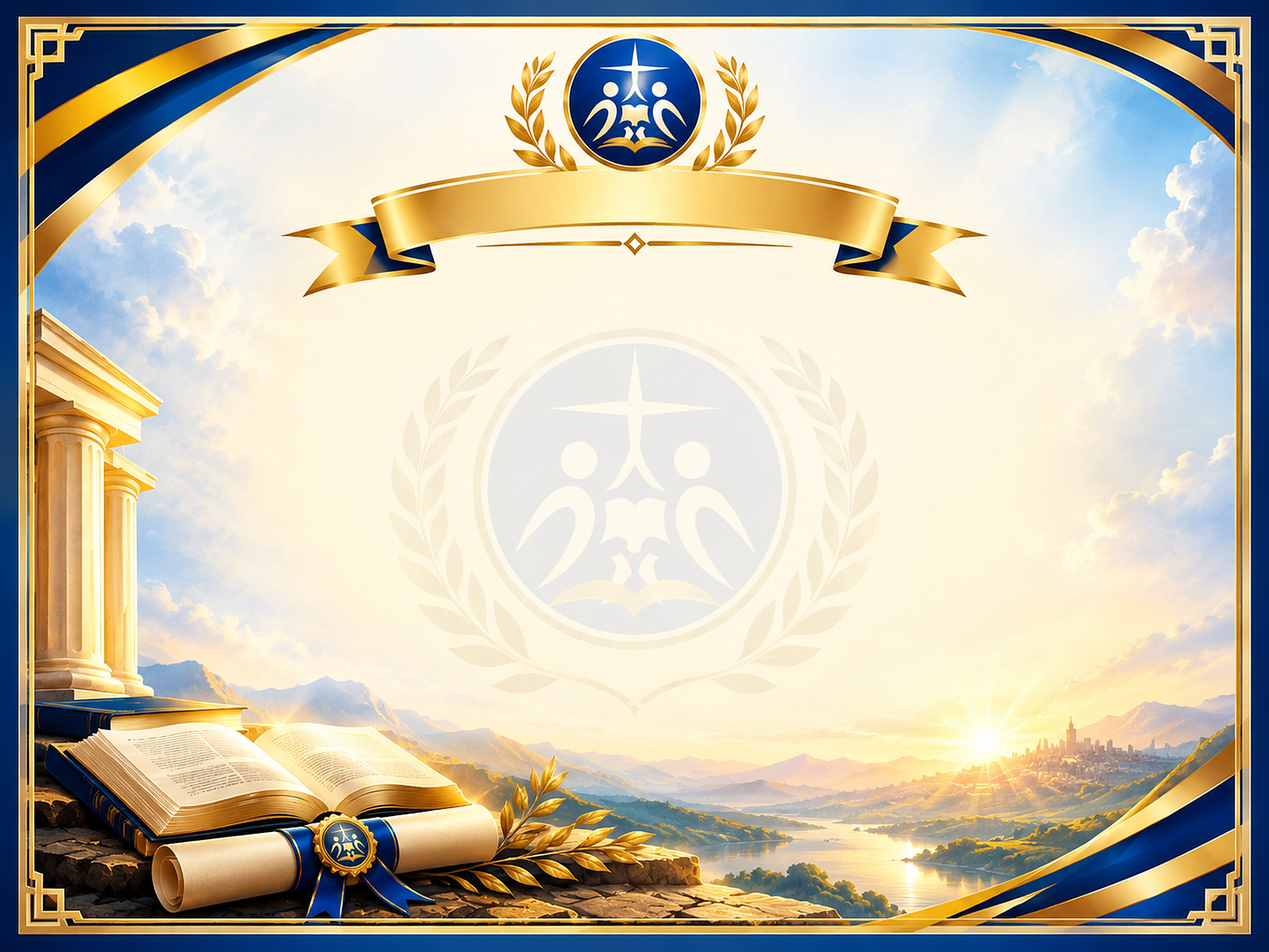
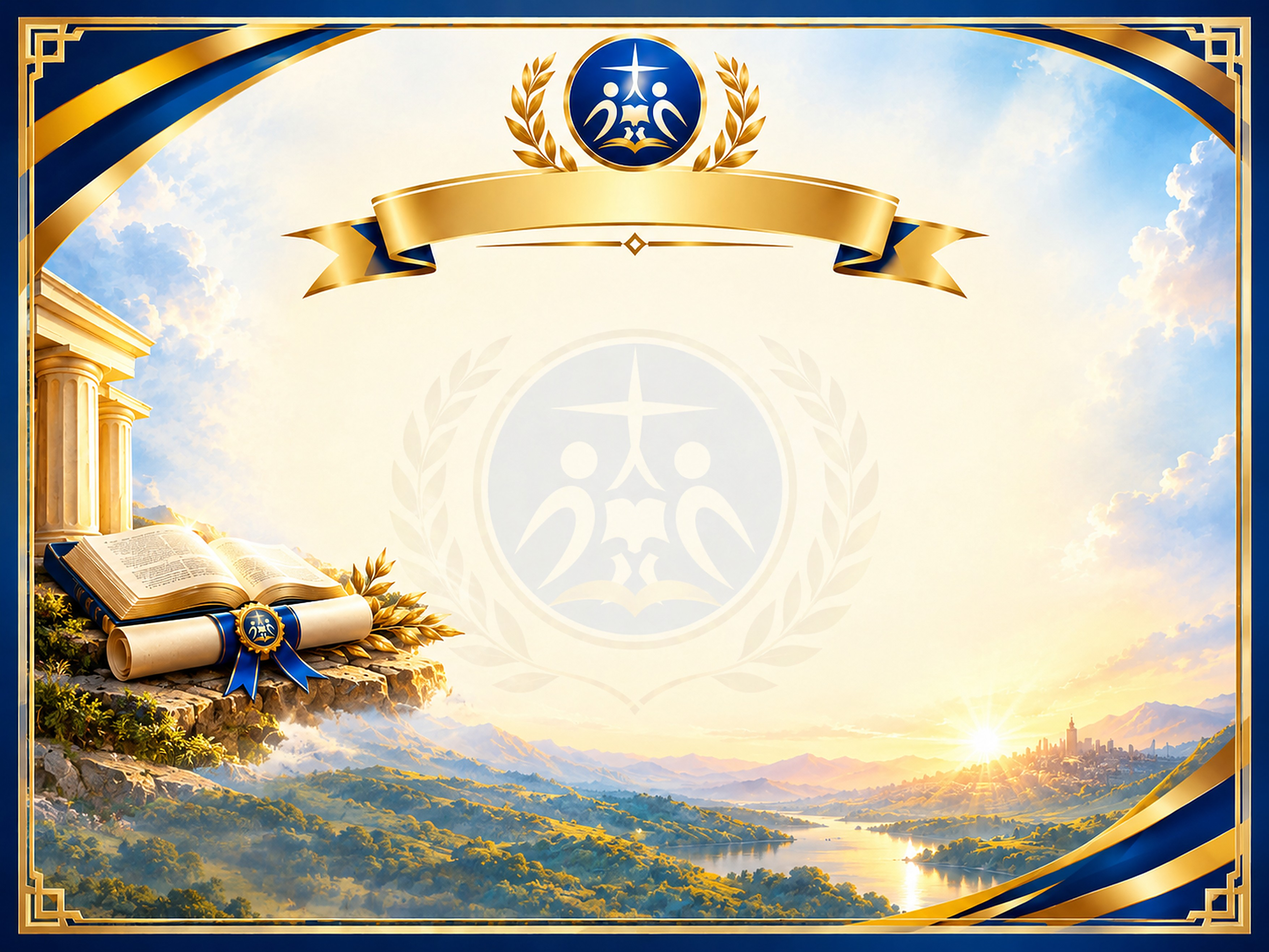
Certificat : nouveau fond (livre et parchemin relevés), bande du bas élargie et centrée, texte remonté (cache v112)

diff --git a/attestation.js b/attestation.js
@@ -124,20 +124,20 @@ async function dessinerCertificatFinal(rec, lang, env, fond) {
   ctx.font = `bold 104px ${SERIF}`; ctx.fillText(lang === "en" ? "OF COMPLETION OF TRAINING" : "DE FIN DE FORMATION", cx, 905);
   ctx.fillStyle = BRUN; ctx.font = `italic 58px ${SERIF}`; ctx.fillText(lang === "en" ? "Builder Path (Parcours Bâtisseur) · Training phase" : "Parcours Bâtisseur · Phase de formation", cx, 985);
   ctx.strokeStyle = OR; ctx.lineWidth = 5; ctx.beginPath(); ctx.moveTo(cx - 420, 1030); ctx.lineTo(cx + 420, 1030); ctx.stroke();
-  ctx.fillStyle = DOUX; ctx.font = `italic 62px ${SERIF}`; ctx.fillText(t.parcours.intro, cx, 1130);
-  let taille = 180; const nom = String(rec.nom || "").trim();
+  ctx.fillStyle = DOUX; ctx.font = `italic 62px ${SERIF}`; ctx.fillText(t.parcours.intro, cx, 1108);
+  let taille = 150; const nom = String(rec.nom || "").trim();
   do { ctx.font = `bold ${taille}px ${SERIF}`; taille -= 8; } while (ctx.measureText(nom).width > 2500 && taille > 70);
-  ctx.fillStyle = MAR; ctx.fillText(nom, cx, 1330);
+  ctx.fillStyle = MAR; ctx.fillText(nom, cx, 1250);
   const lw = Math.min(ctx.measureText(nom).width + 160, 2700);
-  ctx.strokeStyle = OR; ctx.lineWidth = 4; ctx.beginPath(); ctx.moveTo(cx - lw / 2, 1380); ctx.lineTo(cx + lw / 2, 1380); ctx.stroke();
-  let y = 1500;
+  ctx.strokeStyle = OR; ctx.lineWidth = 4; ctx.beginPath(); ctx.moveTo(cx - lw / 2, 1298); ctx.lineTo(cx + lw / 2, 1298); ctx.stroke();
+  let y = 1372;
   t.corpsParcours().forEach((p) => {
-    ctx.fillStyle = ENCRE; ctx.font = `62px ${SERIF}`;
-    lignes(ctx, p[0], 2250).forEach((l) => { ctx.fillText(l, cx, y); y += 86; });
-    y += 24;
+    ctx.fillStyle = ENCRE; ctx.font = `56px ${SERIF}`;
+    lignes(ctx, p[0], 1600).forEach((l) => { ctx.fillText(l, cx, y); y += 76; });
+    y += 22;
   });
   // panneau du bas (lisible sur le paysage) : QR, date et numéro, signature
-  const px = 985, pw = coord ? 2050 : 1900, py = coord ? 2035 : 2060, ph = coord ? 495 : 470;
+  const pw = 2200, px = Math.round(FW / 2 - pw / 2), py = 2030, ph = 500;
   ctx.fillStyle = "rgba(255,255,255,0.86)"; ctx.fillRect(px, py, pw, ph);
   ctx.strokeStyle = OR; ctx.lineWidth = 4; ctx.strokeRect(px, py, pw, ph);
   const m = await env.qr(URL_VERIF + encodeURIComponent(rec.numero));

diff --git a/sw.js b/sw.js
@@ -1,7 +1,7 @@
 // Parcours Bâtisseur — service worker
 // Principe : le réseau d'abord (toujours la dernière version quand il y a du réseau),
 // le cache en secours (lecture hors ligne). Plus de version « figée » sur le téléphone.
-const CACHE = "abba-parcours-v111";
+const CACHE = "abba-parcours-v112";
 const ASSETS = [
   "./", "./index.html", "./style.css", "./app.js", "./sync.js", "./formation.js", "./bible.js", "./lecture.js", "./paiements.js", "./profil.js", "./geo.js", "./voixNative.js",
   "./firebase-config.js", "./attestation.js", "./coordinateurs.js", "./reseau.js", "./i18n.js", "./lang/en.json", "./manifest.json", "./confidentialite.html", "./logo.png",
